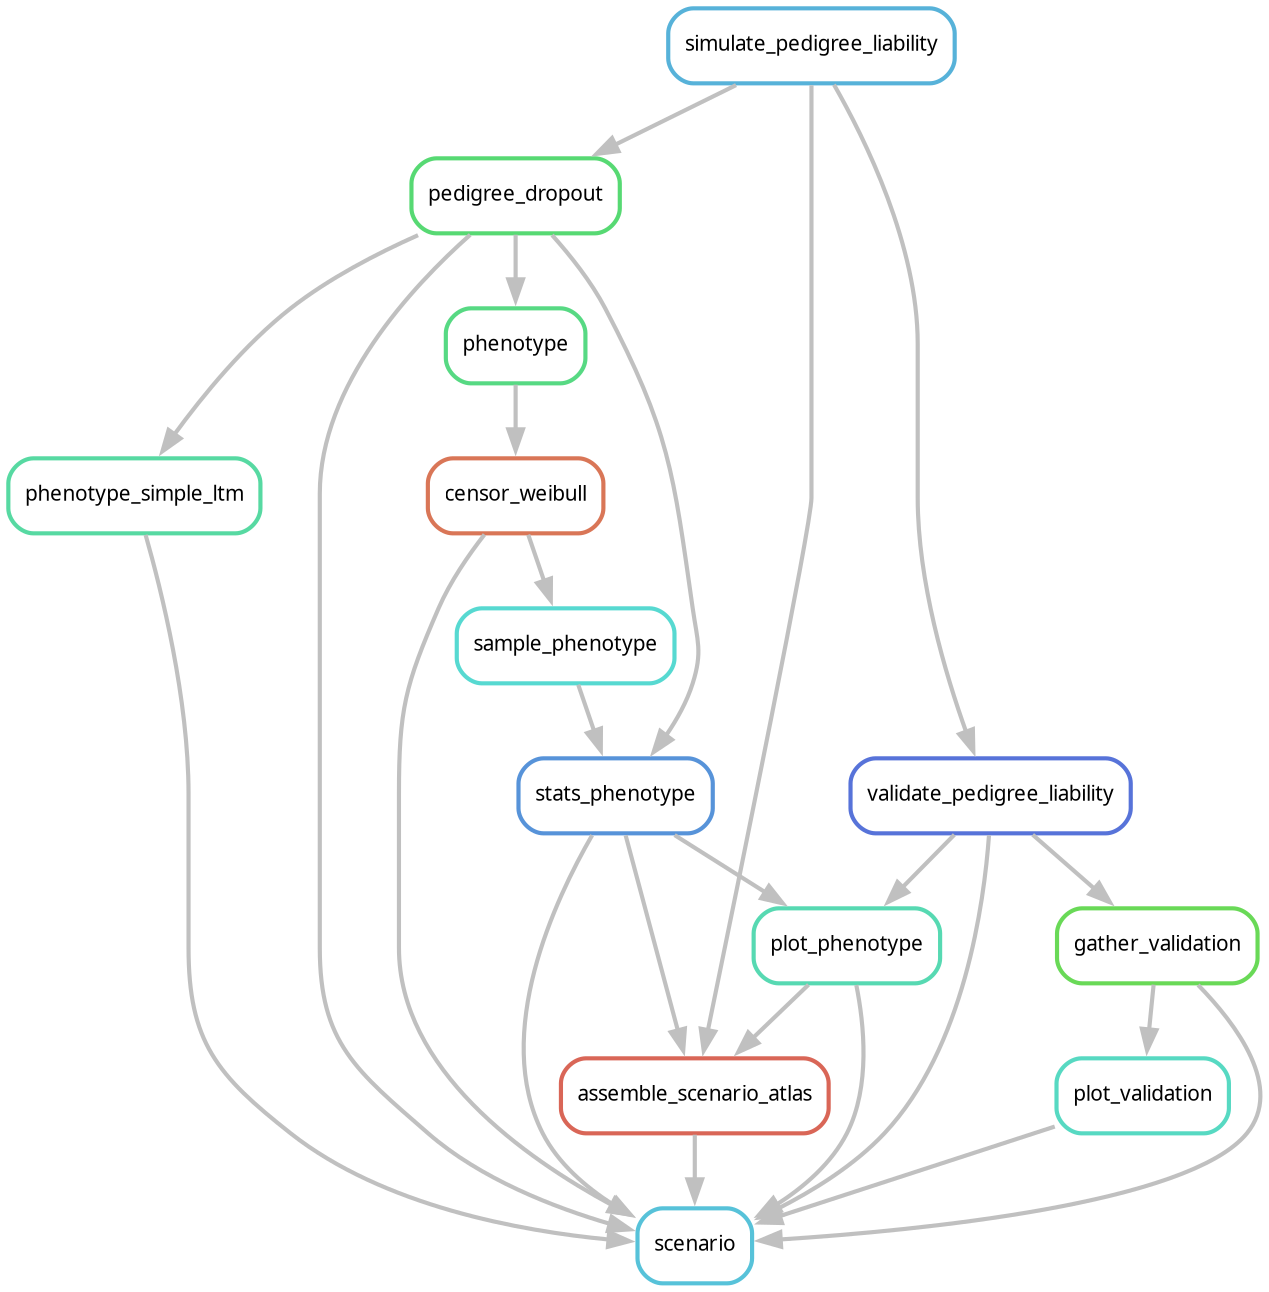
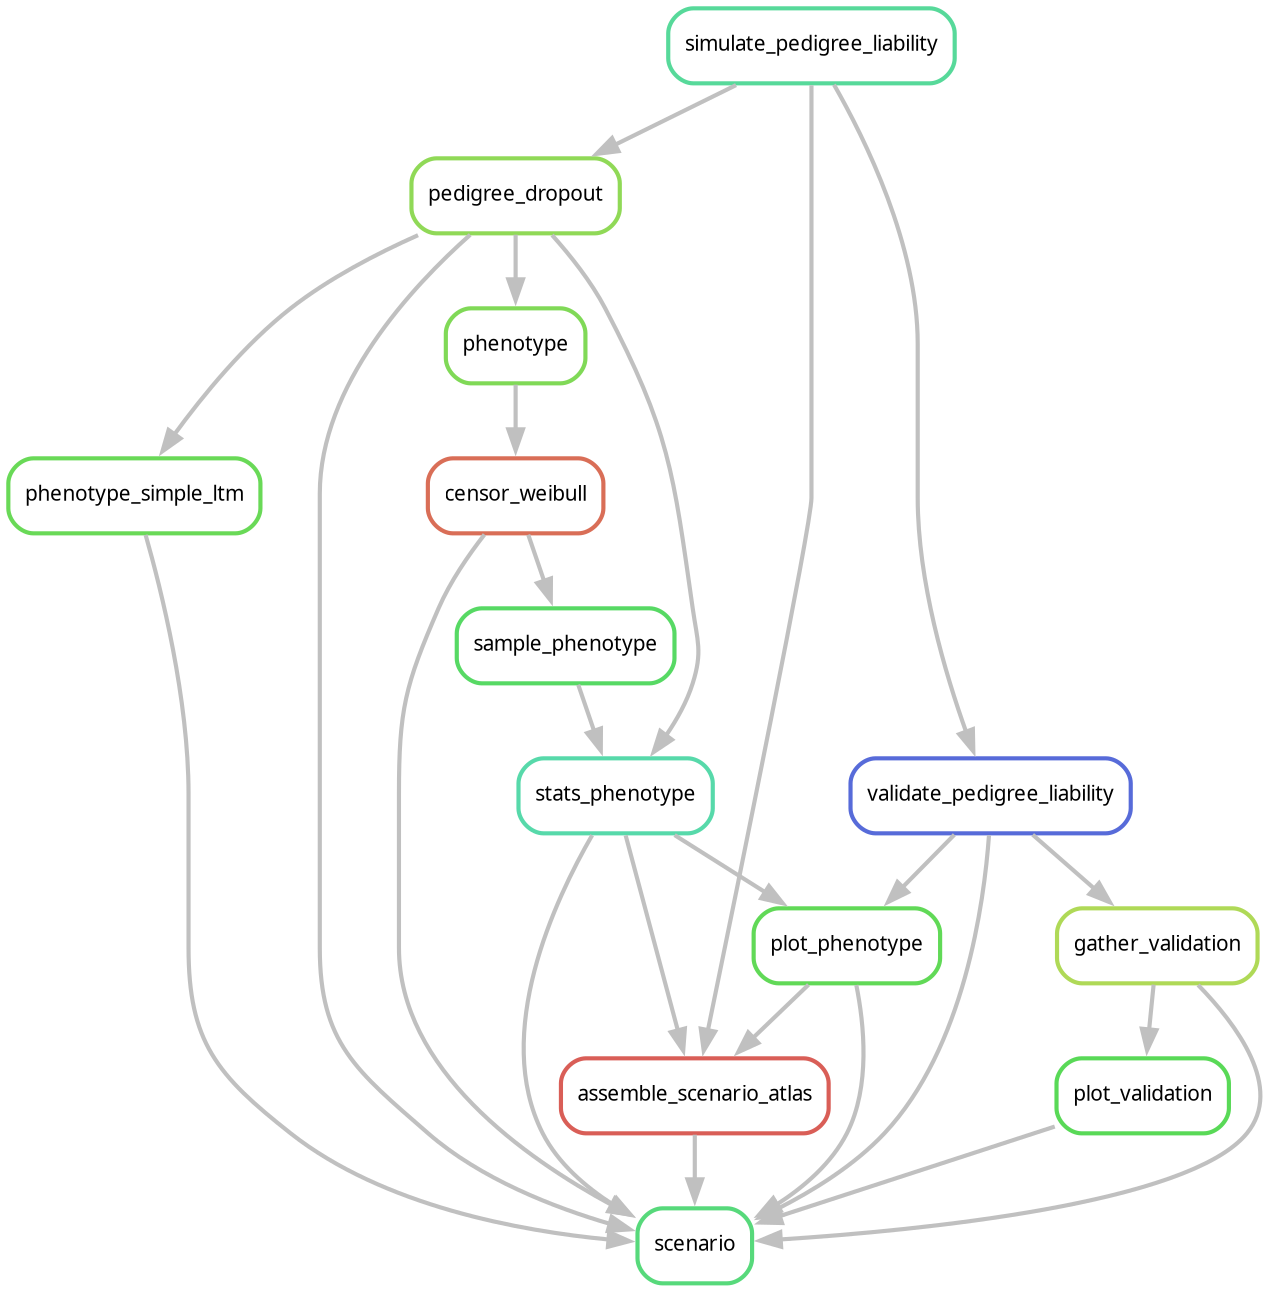
docs: post-merge cleanup — refresh project-structure.md paths and rulegraph.png
project-structure.md was migrated from the old README's repo layout and listed pre-refactor module paths. Update against the current code:

- core/: drop utils.py, weibull_mle.py, _numba_utils.py; add numerics.py, parquet.py, parquet_to_tsv.py, relationships.py, schema.py, yaml_io.py
- analysis/: stats.py is now the analysis/stats/ package (runner, correlations, tetrachoric, pedigree, incidence, censoring, sampling); drop simple_ltm_stats.py, ltm_falconer.py, survival_stats.py
- phenotyping/: add hazards.py
- simulation/: add mate_correlation.py
- plotting/: add plot_style.py, plot_heritability.py, compare_scenarios.py, atlas_manifest.py; drop plot_simple_ltm.py
- workflow/rules/ → workflow/rules/simace/; add examples.smk, tskit_preprocess.smk, tstrait_phenotype.smk, genotype_drop.smk, utils.smk

Regenerate rulegraph.png against the post-merge Snakefile (no visible structural change for the small_test target, but bytes differ — dot output isn't deterministic).

diff --git a/docs/concepts/project-structure.md b/docs/concepts/project-structure.md
@@ -10,41 +10,54 @@ simACE/
 │   └── {folder}.yaml                    # Per-folder scenario definitions
 │
 ├── simace/                              # Simulation package (pip install -e .)
-│   ├── __init__.py                       # setup_logging(), _snakemake_tag()
+│   ├── __init__.py                       # Package init
+│   ├── config.py                         # Config loading and parameter coercion
 │   ├── core/                             # Shared infrastructure
-│   │   ├── utils.py                      # save_parquet, safe_corrcoef, yaml_loader, PAIR_TYPES, etc.
 │   │   ├── cli_base.py                   # Shared CLI boilerplate (add_logging_args, init_logging)
-│   │   ├── pedigree_graph.py             # Sparse-matrix pedigree relationship extraction
 │   │   ├── compute_hazard_terms.py       # Baseline hazard functions (Weibull, Gompertz, etc.)
-│   │   ├── weibull_mle.py                # Gauss-Hermite MLE for Weibull frailty correlation
-│   │   └── _numba_utils.py               # Shared Numba kernels
+│   │   ├── numerics.py                   # safe_corrcoef, safe_linregress, scipy.special wrappers
+│   │   ├── parquet.py                    # save_parquet and parquet I/O helpers
+│   │   ├── parquet_to_tsv.py             # `simace-parquet-to-tsv` CLI entry point
+│   │   ├── pedigree_graph.py             # Sparse-matrix pedigree relationship extraction
+│   │   ├── relationships.py              # Relationship registry (REL_REGISTRY, PAIR_KINSHIP, PAIR_TYPES)
+│   │   ├── schema.py                     # Pipeline data-schema contracts (phenotype → censor → sample handoff)
+│   │   └── yaml_io.py                    # load_yaml, dump_yaml helpers
 │   ├── simulation/
-│   │   └── simulate.py                   # Pedigree simulation (mating, reproduce, run_simulation)
+│   │   ├── simulate.py                   # Pedigree simulation (mating, reproduce, run_simulation)
+│   │   └── mate_correlation.py           # Assortative-mating helpers
 │   ├── phenotyping/
-│   │   ├── phenotype.py                  # Frailty, cure-frailty, ADuLT phenotype models
-│   │   └── threshold.py                  # Liability-threshold binary phenotype
+│   │   ├── phenotype.py                  # PhenotypeModel ABC + frailty / cure-frailty / ADuLT / first-passage models
+│   │   ├── threshold.py                  # Liability-threshold binary phenotype
+│   │   └── hazards.py                    # Baseline-hazard registry (Weibull, exponential, Gompertz, ...)
 │   ├── censoring/
 │   │   └── censor.py                     # Age-window and competing-risk death censoring
 │   ├── sampling/
 │   │   ├── dropout.py                    # Pedigree dropout (random individual removal)
 │   │   └── sample.py                     # Subsampling with case ascertainment bias
 │   ├── analysis/
-│   │   ├── stats.py                      # Tetrachoric correlations, heritability, pair counts
-│   │   ├── simple_ltm_stats.py           # Simple LTM phenotype statistics
+│   │   ├── stats/                        # Per-concern stats package (split from old stats.py)
+│   │   │   ├── runner.py                 # Orchestrator (computes phenotype_stats.yaml)
+│   │   │   ├── correlations.py           # Pairwise correlations and parent-offspring regressions
+│   │   │   ├── tetrachoric.py            # Tetrachoric correlations + Falconer h²
+│   │   │   ├── pedigree.py               # Pair counts and family-structure stats
+│   │   │   ├── incidence.py              # Cumulative incidence curves
+│   │   │   ├── censoring.py              # Censoring confusion / cascade
+│   │   │   └── sampling.py               # Sample-summary statistics
 │   │   ├── validate.py                   # Structural + statistical validation
-│   │   ├── ltm_falconer.py               # Falconer h² from tetrachoric correlations
-│   │   ├── survival_stats.py             # Pairwise frailty correlation wrappers
-│   │   └── gather.py                     # Gather validation results into TSV
+│   │   └── gather.py                     # Gather validation results into validation_summary.tsv
 │   └── plotting/
 │       ├── plot_utils.py                 # Shared plotting helpers (finalize_plot, violin, heatmap)
+│       ├── plot_style.py                 # Color palette and shared style tokens
 │       ├── plot_phenotype.py             # Phenotype plot orchestrator + CLI
 │       ├── plot_distributions.py         # Mortality, age-at-onset, cumulative incidence
 │       ├── plot_liability.py             # Joint liability, violin, affection plots
 │       ├── plot_correlations.py          # Tetrachoric + parent-offspring correlations
+│       ├── plot_heritability.py          # Heritability plots (by generation, sex, etc.)
 │       ├── plot_pedigree_counts.py       # Pedigree relationship pair counts diagram
-│       ├── plot_simple_ltm.py            # Simple LTM phenotype plots
 │       ├── plot_validation.py            # Validation summary plots
+│       ├── compare_scenarios.py          # Cross-scenario comparison plots
 │       ├── plot_atlas.py                 # Multi-page PDF atlas with figure captions
+│       ├── atlas_manifest.py             # Atlas registry + dispatch
 │       ├── plot_pipeline.py              # Pipeline DAG diagram
 │       └── plot_table1.py                # Epidemiological Table 1
 │
@@ -52,15 +65,17 @@ simACE/
 │
 ├── workflow/
 │   ├── common.py                         # Shared helpers (get_param, get_folder, etc.)
-│   ├── rules/                            # Modular Snakemake rule files
-│   │   ├── targets.smk                   # Target rules: all, scenario, per-stage sentinels
-│   │   ├── simulate.smk, dropout.smk     # Pedigree simulation and dropout
-│   │   ├── phenotype.smk, sample.smk     # Phenotyping and sampling
-│   │   ├── validate.smk, stats.smk       # Validation and statistics
-│   │   ├── epimight.smk, pafgrs.smk      # fitACE pipeline rules
-│   │   └── epimight_bias.smk             # EPIMIGHT bias analysis
-│   └── scripts/                          # Snakemake script wrappers
-├── scripts/                             # Standalone helper scripts (e.g., regen_rulegraph.sh)
+│   └── rules/simace/                     # Modular Snakemake rule files
+│       ├── targets.smk                   # Target rules: all, scenario, per-stage sentinels
+│       ├── simulate.smk, dropout.smk     # Pedigree simulation and dropout
+│       ├── phenotype.smk, sample.smk     # Phenotyping and sampling
+│       ├── validate.smk, stats.smk       # Validation and statistics
+│       ├── examples.smk                  # Example-page targets (minimal-ace, with-c, ...)
+│       ├── tskit_preprocess.smk          # tskit founder preprocessing for gene-drop
+│       ├── tstrait_phenotype.smk         # tstrait-based phenotype models
+│       ├── genotype_drop.smk             # Gene-drop pipeline (tskit-based recombination)
+│       └── utils.smk                     # Shared Snakemake utilities
+├── scripts/                             # Standalone helper scripts (regen_rulegraph.sh, run_epimight.py, bench_*.py, etc.)
 ├── tests/                               # Mirrors simace/ sub-package structure
 ├── external/                            # Reference implementations (gitignored)
 ├── results/{folder}/{scenario}/         # Per-scenario simulation outputs
